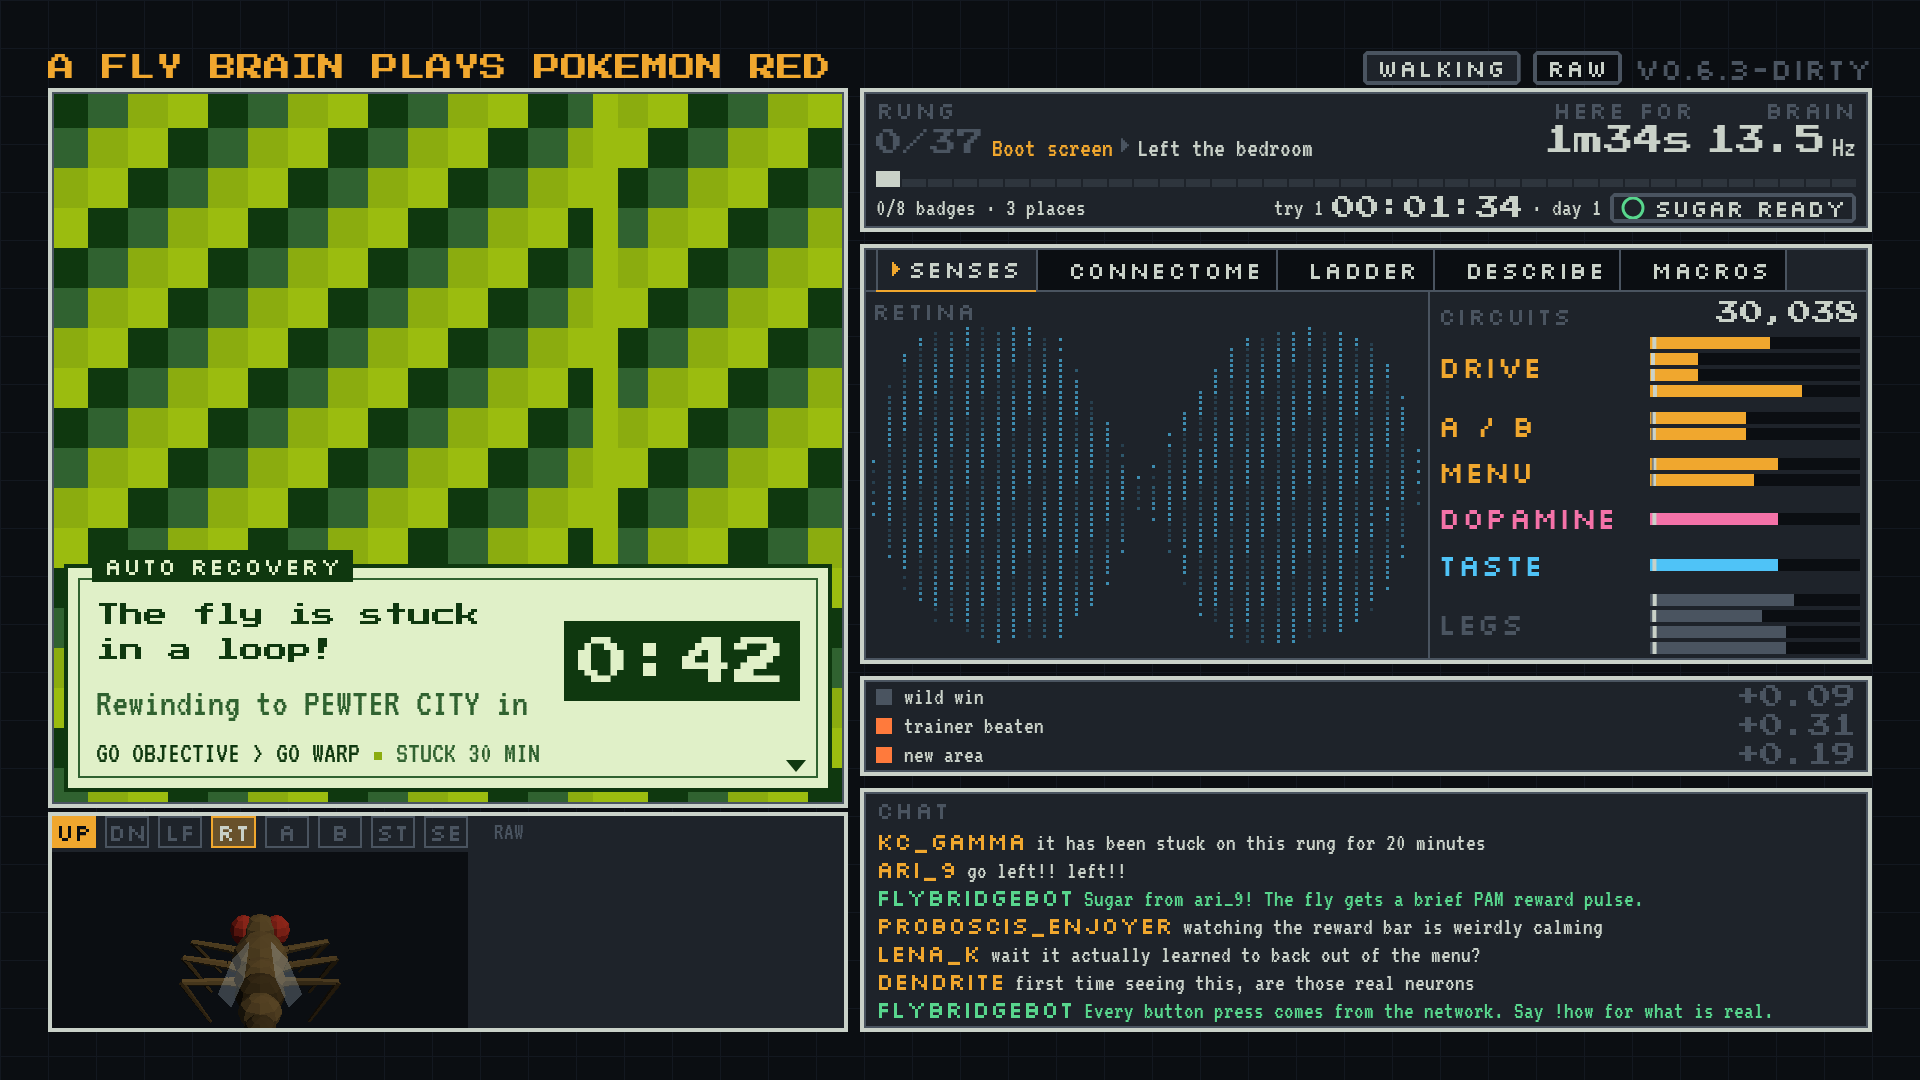
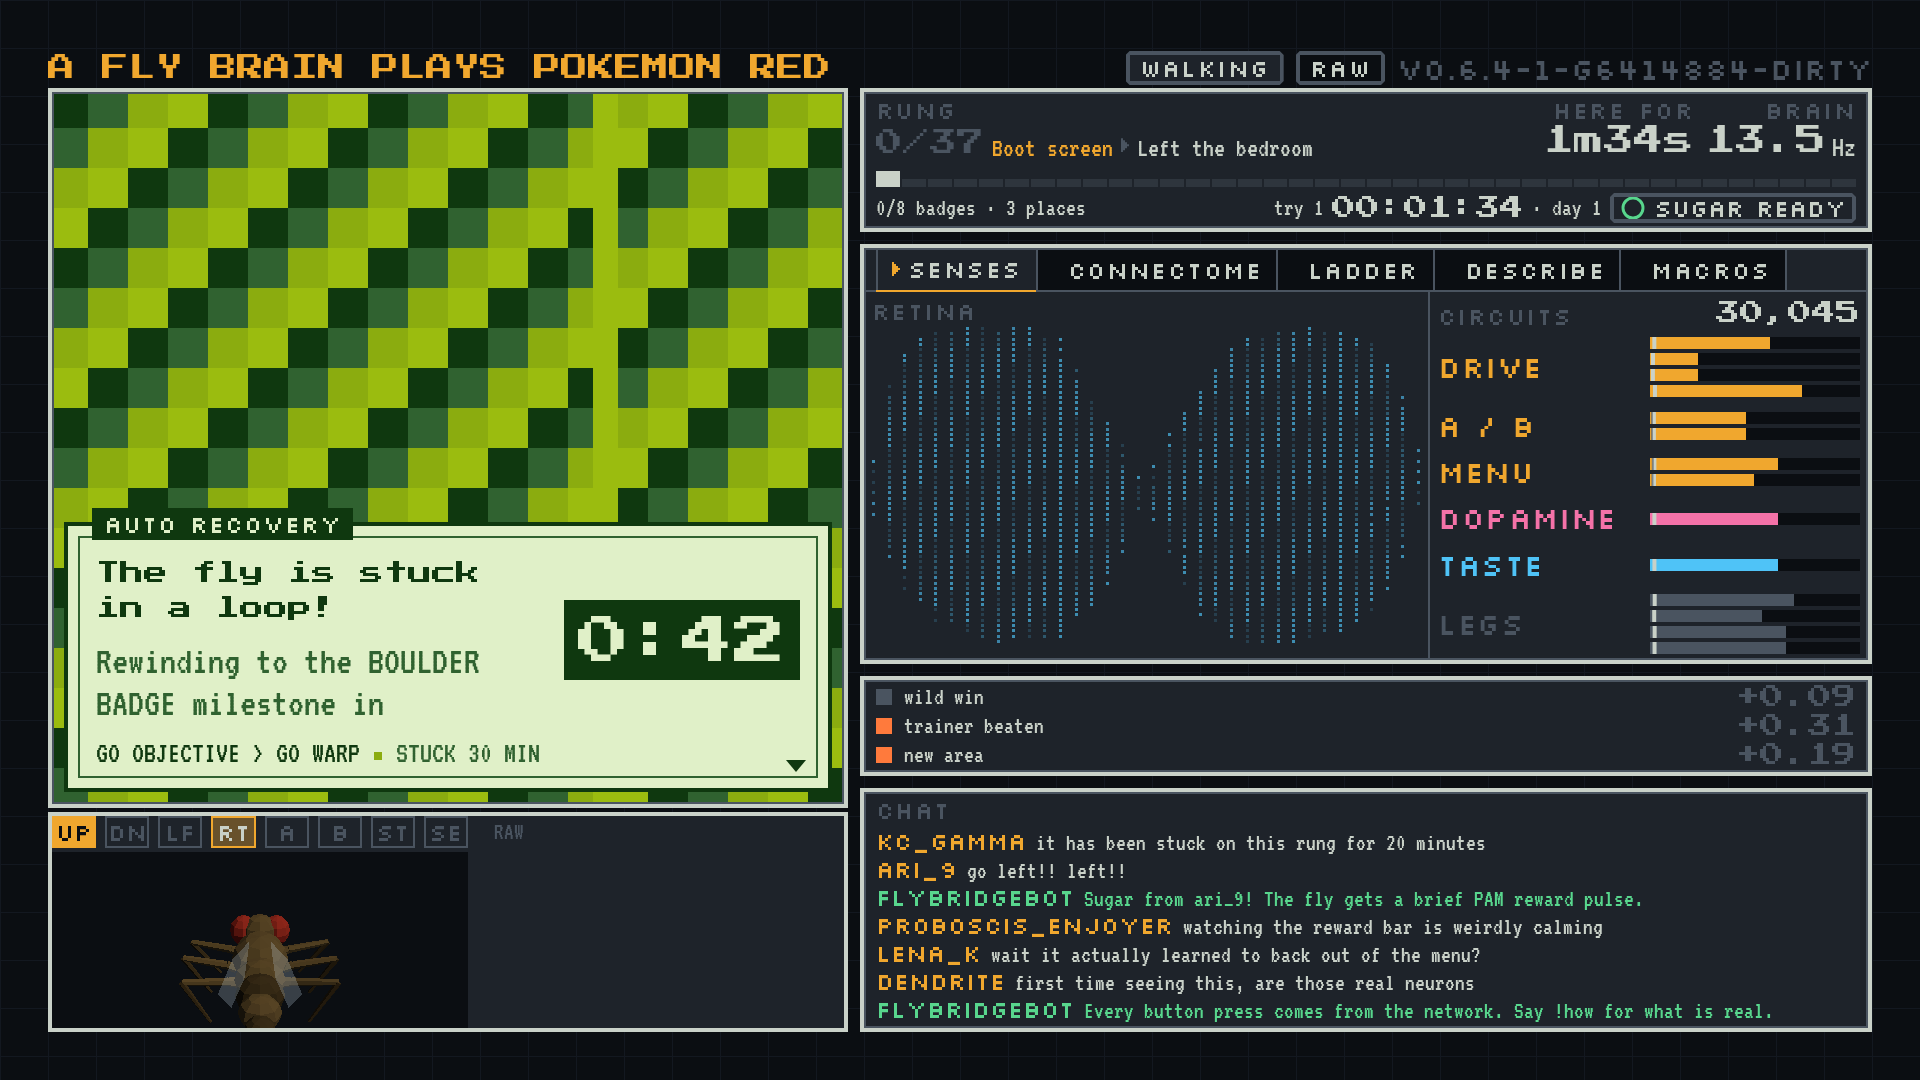
recovery splash: the operator's copy, and STUCK from the last progress
A reset to the rung the fly is on reads 'the start of MT. MOON'; a rung
that is not a place reads 'the BOULDER BADGE milestone'; failed says
what happens next ('Trying something else next') instead of promising
a human. The helper keeps the last probe that saw new places or a higher
rung, across restarts and reboots, so STUCK counts the whole trap rather
than the current streak (live: 15 MIN shown for a two-day trap).
Mockups re-shot with the real next target (12 -> 11).

Changed region(s): [[0.0312, 0.4583, 0.4375, 0.6722], [0.5938, 0.0306, 0.9062, 0.0917], [0.9375, 0.275, 0.9688, 0.3056]]

diff --git a/apps/stage/src/lib/recovery.ts b/apps/stage/src/lib/recovery.ts
@@ -213,11 +213,34 @@ export function recoveryVisible(notice: RecoveryNotice, nowS: number): boolean {
   }
 }
 
+/**
+ * Ladder rungs (`docs/design/ladder.md`) whose label is a place the fly can be "back at". The rest
+ * are events (BOULDER BADGE, GOT A STARTER, HM CUT) and read as "the BOULDER BADGE milestone".
+ */
+const PLACE_RUNGS: ReadonlySet<string> = new Set([
+  'PALLET TOWN', "OAK'S LAB", 'VIRIDIAN CITY', 'VIRIDIAN FOREST', 'PEWTER CITY', 'MT. MOON',
+  'CERULEAN CITY', 'NUGGET BRIDGE', 'VERMILION CITY', 'ROCK TUNNEL', 'LAVENDER TOWN',
+  'CELADON CITY', 'FUCHSIA CITY', 'CINNABAR ISLAND', 'INDIGO PLATEAU',
+]);
+
+/**
+ * Where a reset goes, in words: `PEWTER CITY`, `the BOULDER BADGE milestone`, and `the start of
+ * MT. MOON` when the target is the rung the fly is already on (the ladder's first reset: it goes
+ * back to where it first reached that rung). Empty without a label.
+ */
+export function resetTarget(notice: RecoveryNotice): string {
+  const label = notice.toLabel;
+  if (label === '') return '';
+  const named = PLACE_RUNGS.has(label) ? label : `the ${label} milestone`;
+  const same = notice.toRung !== null && notice.toRung === notice.fromRung;
+  return same ? `the start of ${named}` : named;
+}
+
 /** The splash at `nowS`, or null when nothing should be on screen. */
 export function recoveryView(notice: RecoveryNotice | null, nowS: number): RecoveryView | null {
   if (notice === null || !recoveryVisible(notice, nowS)) return null;
   const reset = notice.action === 'reset';
-  const to = notice.toLabel;
+  const to = resetTarget(notice);
   const base = {
     id: notice.id,
     phase: notice.phase,
@@ -276,7 +299,7 @@ export function recoveryView(notice: RecoveryNotice | null, nowS: number): Recov
         layout: 'box',
         chip: 'AUTO RECOVERY',
         headline: "That didn't work",
-        body: 'A human will take a look',
+        body: 'Trying something else next',
         countdown: '',
         loop: '',
         stuck: '',

diff --git a/apps/stage/tests/unit/recovery.test.ts b/apps/stage/tests/unit/recovery.test.ts
@@ -141,6 +141,19 @@ test('acting: covers the game while flysim is down, and gives up after a cap', (
   assert.equal(view(acting, T + 60 + RECOVERY_ACTING_MAX_S + 1), null);
 });
 
+test('a rung that is not a place reads as a milestone, and the current rung as its start', () => {
+  const badge = notice({ toRung: 11, toLabel: 'BOULDER BADGE' });
+  assert.equal(view(badge, T + 18)?.body, 'Rewinding to the BOULDER BADGE milestone in');
+  assert.equal(view({ ...badge, phase: 'acting' }, T + 63)?.body, 'Back to the BOULDER BADGE milestone');
+  assert.equal(view({ ...badge, phase: 'done', updatedAt: T + 120 }, T + 120)?.headline, 'Back at the BOULDER BADGE milestone!');
+
+  const same = notice({ toRung: 12, toLabel: 'MT. MOON' });
+  assert.equal(view(same, T + 18)?.body, 'Rewinding to the start of MT. MOON in');
+  assert.equal(view({ ...same, phase: 'done', updatedAt: T + 120 }, T + 120)?.headline, 'Back at the start of MT. MOON!');
+  assert.equal(view({ ...same, toLabel: 'BOULDER BADGE', toRung: 12, fromRung: 12 }, T + 18)?.body,
+    'Rewinding to the start of the BOULDER BADGE milestone in');
+});
+
 test('done shows about 8 s, failed a little longer, then both clear', () => {
   const done = notice({ phase: 'done', updatedAt: T + 120 });
   assert.equal(view(done, T + 120)?.headline, 'Back at PEWTER CITY!');
@@ -149,7 +162,7 @@ test('done shows about 8 s, failed a little longer, then both clear', () => {
   assert.equal(view(done, T + 120 + RECOVERY_DONE_S + 1), null);
 
   const failed = notice({ phase: 'failed', updatedAt: T + 120 });
-  assert.equal(view(failed, T + 125)?.body, 'A human will take a look');
+  assert.equal(view(failed, T + 125)?.body, 'Trying something else next');
   assert.equal(view(failed, T + 120 + RECOVERY_FAILED_S + 1), null);
 });
 

diff --git a/infra/tests/test_loop_recover.py b/infra/tests/test_loop_recover.py
@@ -240,6 +240,18 @@ class RecoveryTests(unittest.TestCase):
         with patch.object(recover.subprocess, "run", return_value=recover.subprocess.CompletedProcess([], 1, "12", "")):
             self.assertEqual(RESTORABLE_RUNGS(), set())
 
+    def test_stuck_time_counts_from_the_last_progress_across_restarts(self):
+        self.report(at=T0 - 7200, suspected=0, places={"uniqueLocations": 10, "delta": 4})
+        recover.run(T0 - 7195)
+        recover.write_json(recover.STATE, dict(json.loads(recover.STATE.read_text()), vetoes=0))
+        self.confirm(T0)
+        self.assertEqual(json.loads(recover.NOTICE.read_text())["stuckSeconds"], 7505)
+        self.assertEqual(json.loads(recover.STATE.read_text())["lastProgressAt"], T0 - 7200)
+
+    def test_stuck_time_falls_back_to_the_streak_without_a_progress_mark(self):
+        self.confirm(T0)
+        self.assertEqual(json.loads(recover.NOTICE.read_text())["stuckSeconds"], 305 + 600)
+
     def test_history_records_every_step(self):
         self.confirm(T0)
         lines = [json.loads(line) for line in recover.HISTORY.read_text().splitlines()]

diff --git a/apps/stage/README.md b/apps/stage/README.md
@@ -278,10 +278,14 @@ it reads as the cartridge's text box, not as a rail panel or an alarm:
 
 | Phase | Layout | Reset copy | Restart copy |
 |---|---|---|---|
-| `countdown` | Text box over the bottom ~40% of the game, big `M:SS` to `executeAt`, the loop and how long it was stuck. The stuck loop stays visible above it | The fly is stuck in a loop! / Rewinding to PEWTER CITY in 0:42 | … / Shaking it off in 0:42 |
-| `acting` | Covers the whole 800x720 game panel, which is frozen or blank while flysim is down; a stepped progress bar | Rewinding… / Back to PEWTER CITY | Shaking it off… / Same place, fresh start |
-| `done` | Text box, 8 s after the helper's `updatedAt` | Back at PEWTER CITY! | All shaken off! |
-| `failed` | Text box, 20 s | That didn't work / A human will take a look | same |
+| `countdown` | Text box over the bottom ~40% of the game, big `M:SS` to `executeAt`, the loop and how long it was stuck. The stuck loop stays visible above it | The fly is stuck in a loop! / Rewinding to the BOULDER BADGE milestone in 0:42 | … / Shaking it off in 0:42 |
+| `acting` | Covers the whole 800x720 game panel, which is frozen or blank while flysim is down; a stepped progress bar | Rewinding… / Back to the BOULDER BADGE milestone | Shaking it off… / Same place, fresh start |
+| `done` | Text box, 8 s after the helper's `updatedAt` | Back at the BOULDER BADGE milestone! | All shaken off! |
+| `failed` | Text box, 20 s | That didn't work / Trying something else next | same |
+
+A reset names its target by the ladder label: a place as is (`PEWTER CITY`), any other rung as
+`the BOULDER BADGE milestone`, and the rung the fly is already on as `the start of MT. MOON` (the
+ladder's first reset goes back to where it first reached that rung).
 
 **Where the notice comes from.** Not the feed: flysim is the thing being restarted. The helper
 writes `/run/fly/wd/recovery-notice.json` atomically (tmp + rename); `flystage-web`
